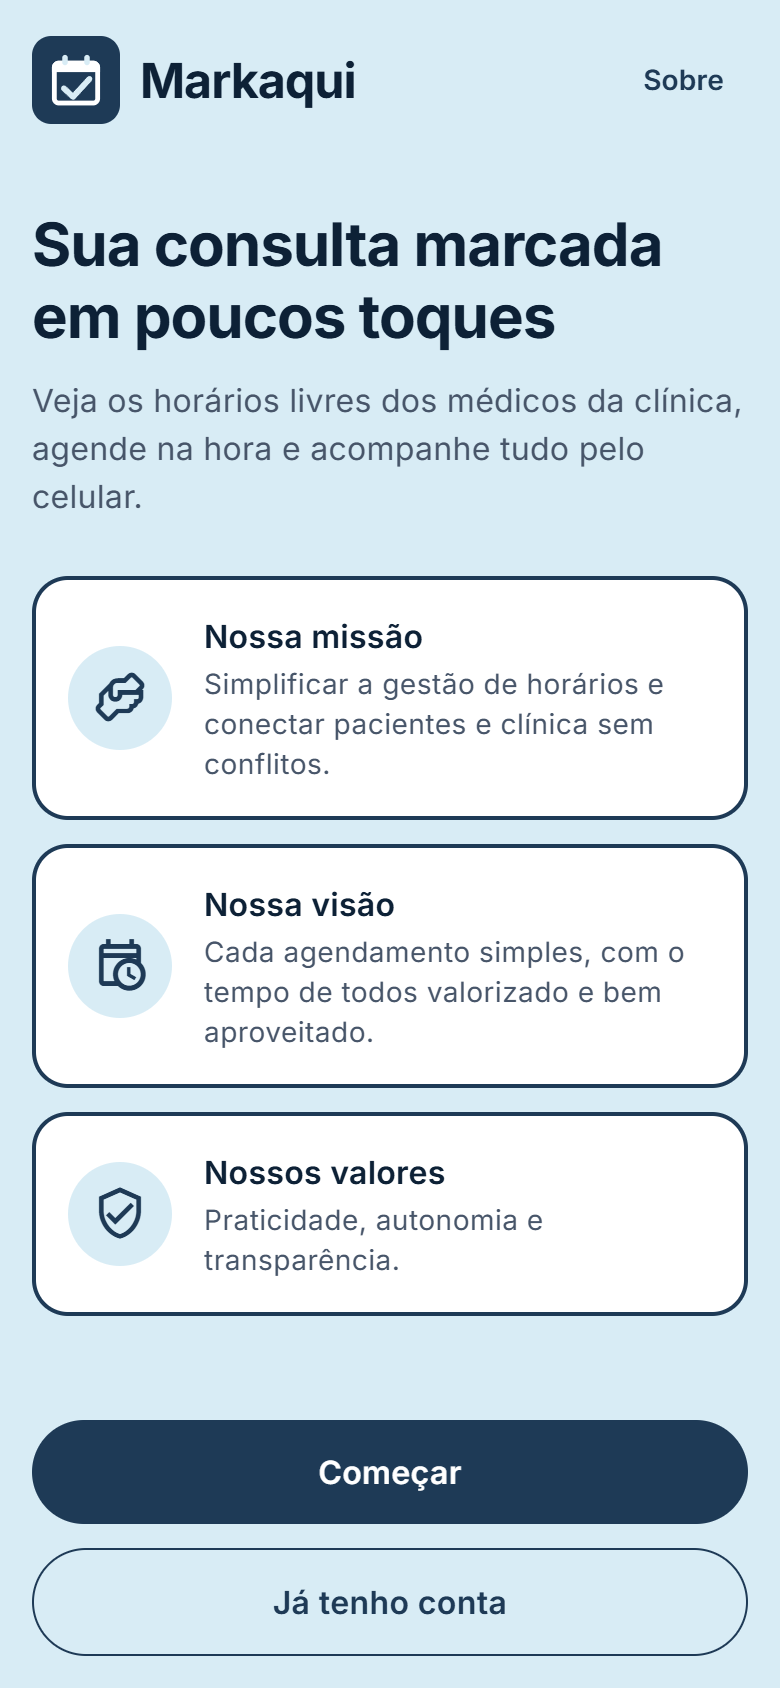
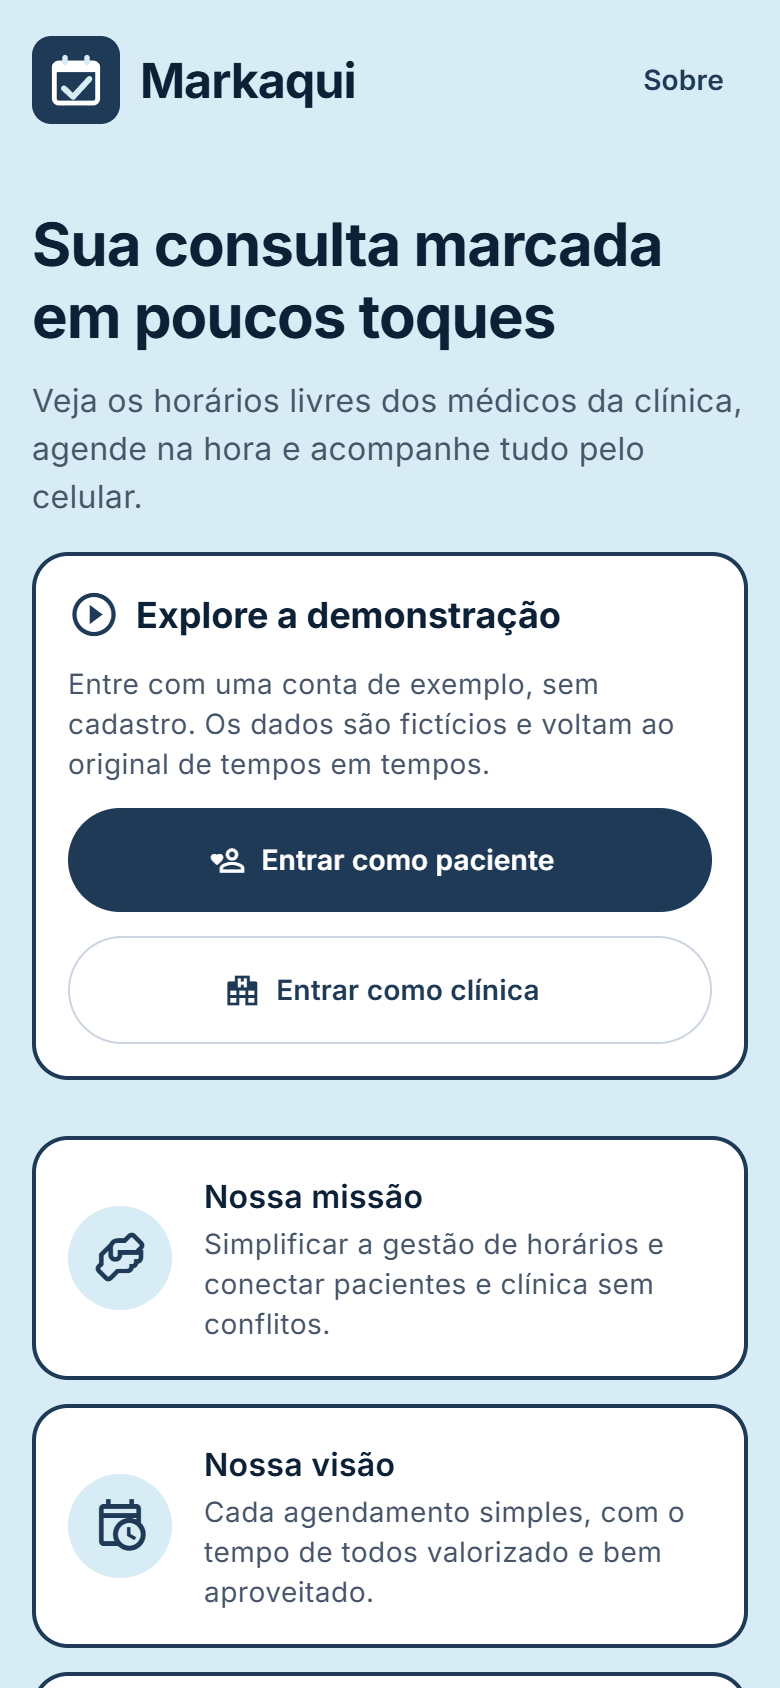
atualiza os prints com o cartao de demonstracao, a tela de servidor acordando e o painel no computador
Prints tirados do app rodando a partir de um clone limpo com o iniciar.bat.

diff --git a/README.md b/README.md
@@ -49,6 +49,9 @@ Também: boas-vindas e escolha de perfil, recuperar senha (honesta: explica o ca
   <img src="docs/img/app/22-abrir-horarios.png" width="180" alt="Abrir vários horários de uma vez">
   <img src="docs/img/app/24-editar-medico.png" width="180" alt="Editar médico">
   <img src="docs/img/app/04-recuperar-senha.png" width="180" alt="Recuperar senha">
+  <img src="docs/img/app/29-acordando-servidor.png" width="180" alt="Acordando o servidor de demonstração">
+  <img src="docs/img/app/12-historico.png" width="180" alt="Histórico com consulta cancelada e realizada">
+  <img src="docs/img/app/31-desktop-painel.png" width="560" alt="Painel da clínica no navegador do computador">
   <img src="docs/img/app/28-sem-conexao.png" width="180" alt="Estado sem conexão com o servidor">
 </p>
 <p>Prints reais tirados do app rodando no navegador (Expo web) com os dados de demonstração.</p>
